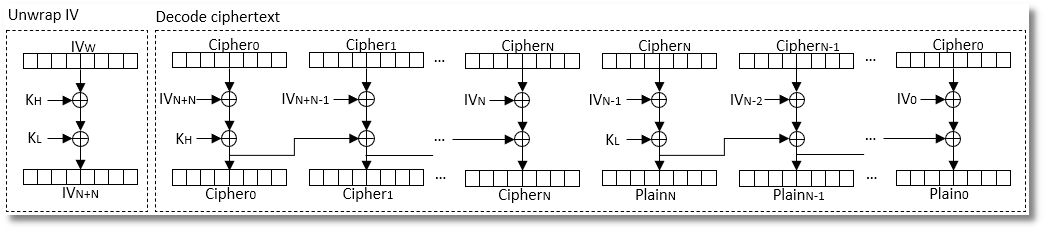
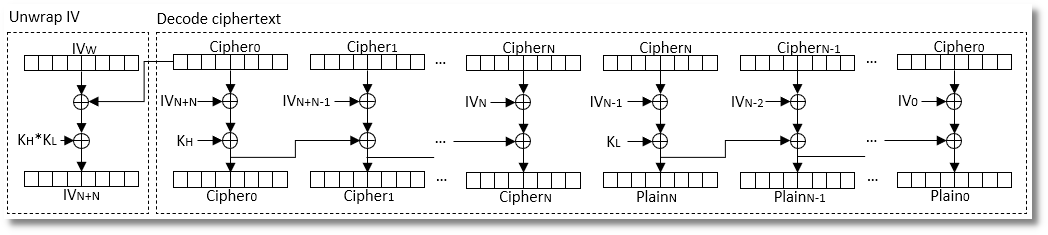
update algo iv wrapping/unwrapping to beter protect key

diff --git a/src/obf.c b/src/obf.c
@@ -68,8 +68,8 @@ static void obf_decode_blocks(const obf_key_t *key, obf_iv_t *iv, obf_block_t *d
     obf_iv_t tiv = 0;
 
     /* Unwrap IV */
-    *iv = obf_encode_block(&tiv, *iv, key->high);
-    *iv = obf_encode_block(&tiv, *iv, key->low);
+    *iv = obf_encode_block(&tiv, *iv, data[0]);
+    *iv = obf_encode_block(&tiv, *iv, key->low * key->high);
 
     /* Decode ciphertext blocks with key high-part */
     for(size_t index = 0; index < length; ++index) {
@@ -104,8 +104,8 @@ static void obf_encode_blocks(const obf_key_t *key, obf_iv_t *iv, obf_block_t *d
     }
 
     /* Wrap IV */
-    *iv = obf_encode_block(&tiv, *iv, key->low);
-    *iv = obf_encode_block(&tiv, *iv, key->high);
+    *iv = obf_encode_block(&tiv, *iv, key->low * key->high);
+    *iv = obf_encode_block(&tiv, *iv, data[0]);
 }
 
 /**

diff --git a/README.md b/README.md
@@ -88,27 +88,27 @@ if(result != OBF_SUCCESS) {
 
 ```
 Length = 32
-Key    = 7D1D263759F45E16
-IV     = 1D07D801
+Key    = 1E03C35F139284D4
+IV     = 2690C487
 
-Plain  = 5094D678, 540C2EA8, 6465EA31, 56D71C0D, 285C9585, 2D100B4D, 311A3DA8, 56C73EA8,
-         11257B06, 0486CC36, 1512BD26, 5178E29E, 72A920B9, 5551FFA7, 287E574B, 26857C4B,
-         0D2339E4, 757EF510, 4C0724E9, 18174FE7, 05AD8ADC, 1953D5F2, 196B5DC1, 180A8A72,
-         61138345, 7D1041BA, 646D28D4, 2161E972, 1A1819BB, 3E6186EA, 1E7F0FA9, 6AACF033
+Plain  = 22600419, 6A0BAFCE, 6B9E78B5, 405B93EC, 33D53378, 39F327EE, 11200CCF, 62133550,
+         5F5EA47C, 526D243B, 5CC9E7BF, 646D924D, 50A420C0, 159B43B3, 7306736A, 32116E90,
+         5F9F6ABA, 5418A129, 2498B06A, 45AA10BD, 7B278B82, 74E888AC, 0DD6BCEA, 13ECE325,
+         48DF7EA0, 1CDC4FE2, 0D44EF1E, 4B21132A, 436D1469, 20D773F2, 6924D689, 65CD1882
 
-IVW    = 39EEA061
+IVW    = 79F09939
 
-Cipher = 46B7B715, 4FD73F3A, 0FBC41C0, 36B50D09, 446C85CA, 03EE4088, 747B5686, 2FF3A526,
-         3FBBB025, 23D10628, 263AA416, 2BC46304, 6A459E87, 446A9BB1, 2213B929, 711314F4,
-         19911D71, 6137F500, 71E8306C, 303709FB, 74F8A79C, 289D5B33, 70ACAA7F, 2CF1DEE4,
-         75A1F816, 50E585B9, 15B661B9, 298F7577, 29D050D4, 2E90B4D0, 0AB60E27, 2DE86367
+Cipher = 1A689B53, 2B9A1BDF, 56F3F016, 6694A7E2, 3038A777, 73D15010, 2F5B4416, 44619853,
+         6BD8B5B7, 3DAFF8A1, 1F25551F, 47F6DB8E, 5DD803C7, 31C23FDC, 6ED384E3, 64548822,
+         7A522EEA, 1D5B260E, 08DA4B58, 1F5352FC, 6BE09F78, 42E41DE4, 3998D34B, 69A26592,
+         0CE4F4EF, 07EDDFAC, 36A87FAE, 2C39F412, 5B19A821, 49C424D9, 5D5E1F74, 067036F4
 
-IV     = 1D07D801
+IV     = 2690C487
 
-Plain  = 5094D678, 540C2EA8, 6465EA31, 56D71C0D, 285C9585, 2D100B4D, 311A3DA8, 56C73EA8,
-         11257B06, 0486CC36, 1512BD26, 5178E29E, 72A920B9, 5551FFA7, 287E574B, 26857C4B,
-         0D2339E4, 757EF510, 4C0724E9, 18174FE7, 05AD8ADC, 1953D5F2, 196B5DC1, 180A8A72,
-         61138345, 7D1041BA, 646D28D4, 2161E972, 1A1819BB, 3E6186EA, 1E7F0FA9, 6AACF033
+Plain  = 22600419, 6A0BAFCE, 6B9E78B5, 405B93EC, 33D53378, 39F327EE, 11200CCF, 62133550,
+         5F5EA47C, 526D243B, 5CC9E7BF, 646D924D, 50A420C0, 159B43B3, 7306736A, 32116E90,
+         5F9F6ABA, 5418A129, 2498B06A, 45AA10BD, 7B278B82, 74E888AC, 0DD6BCEA, 13ECE325,
+         48DF7EA0, 1CDC4FE2, 0D44EF1E, 4B21132A, 436D1469, 20D773F2, 6924D689, 65CD1882
 ```
 
 ## License
